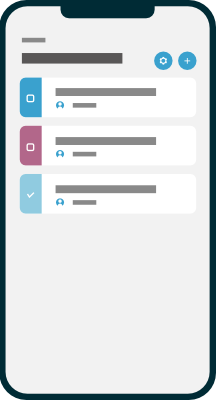
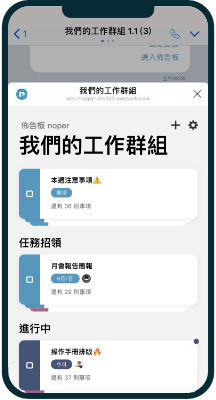
feat(img): update feature images

diff --git a/README.md b/README.md
@@ -1,1 +1,6 @@
 # Awesork Official Website (backup)
+
+![React](https://img.shields.io/badge/react-%2320232a.svg?style=for-the-badge&logo=react&logoColor=%2361DAFB)
+![TypeScript](https://img.shields.io/badge/typescript-%23007ACC.svg?style=for-the-badge&logo=typescript&logoColor=white)
+![TailwindCSS](https://img.shields.io/badge/tailwindcss-%2338B2AC.svg?style=for-the-badge&logo=tailwind-css&logoColor=white)
+![Yarn](https://img.shields.io/badge/yarn-%232C8EBB.svg?style=for-the-badge&logo=yarn&logoColor=white)
